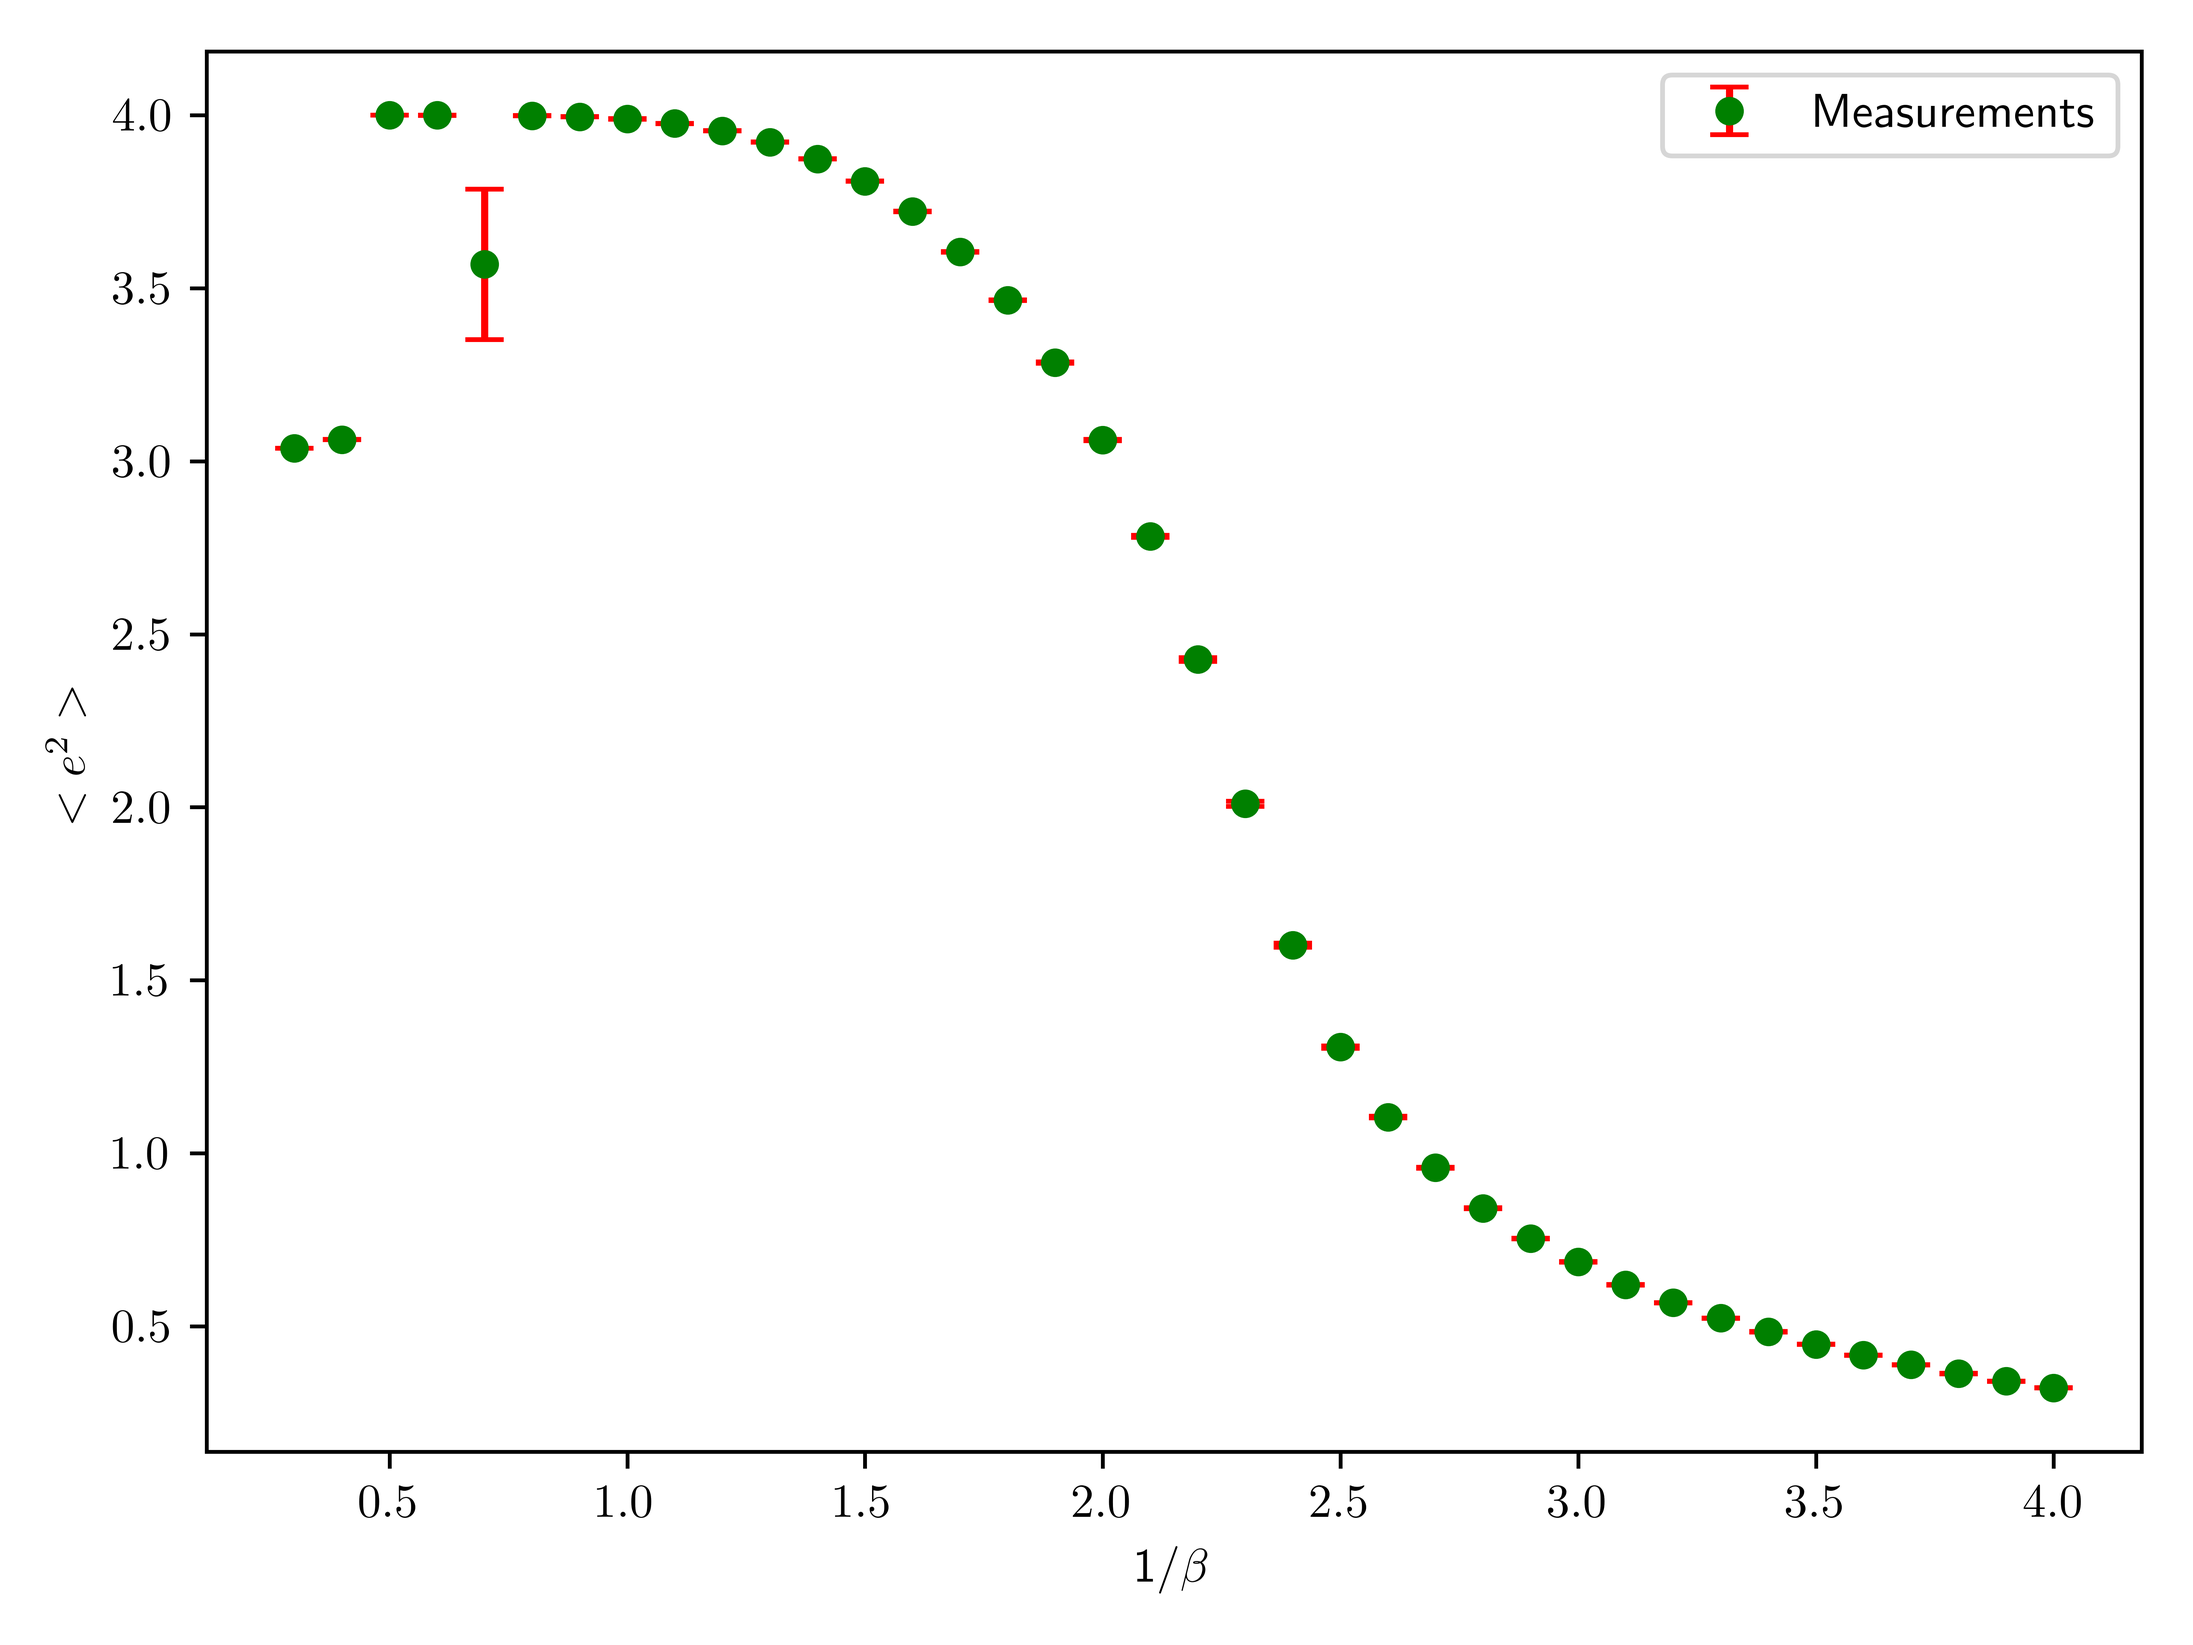
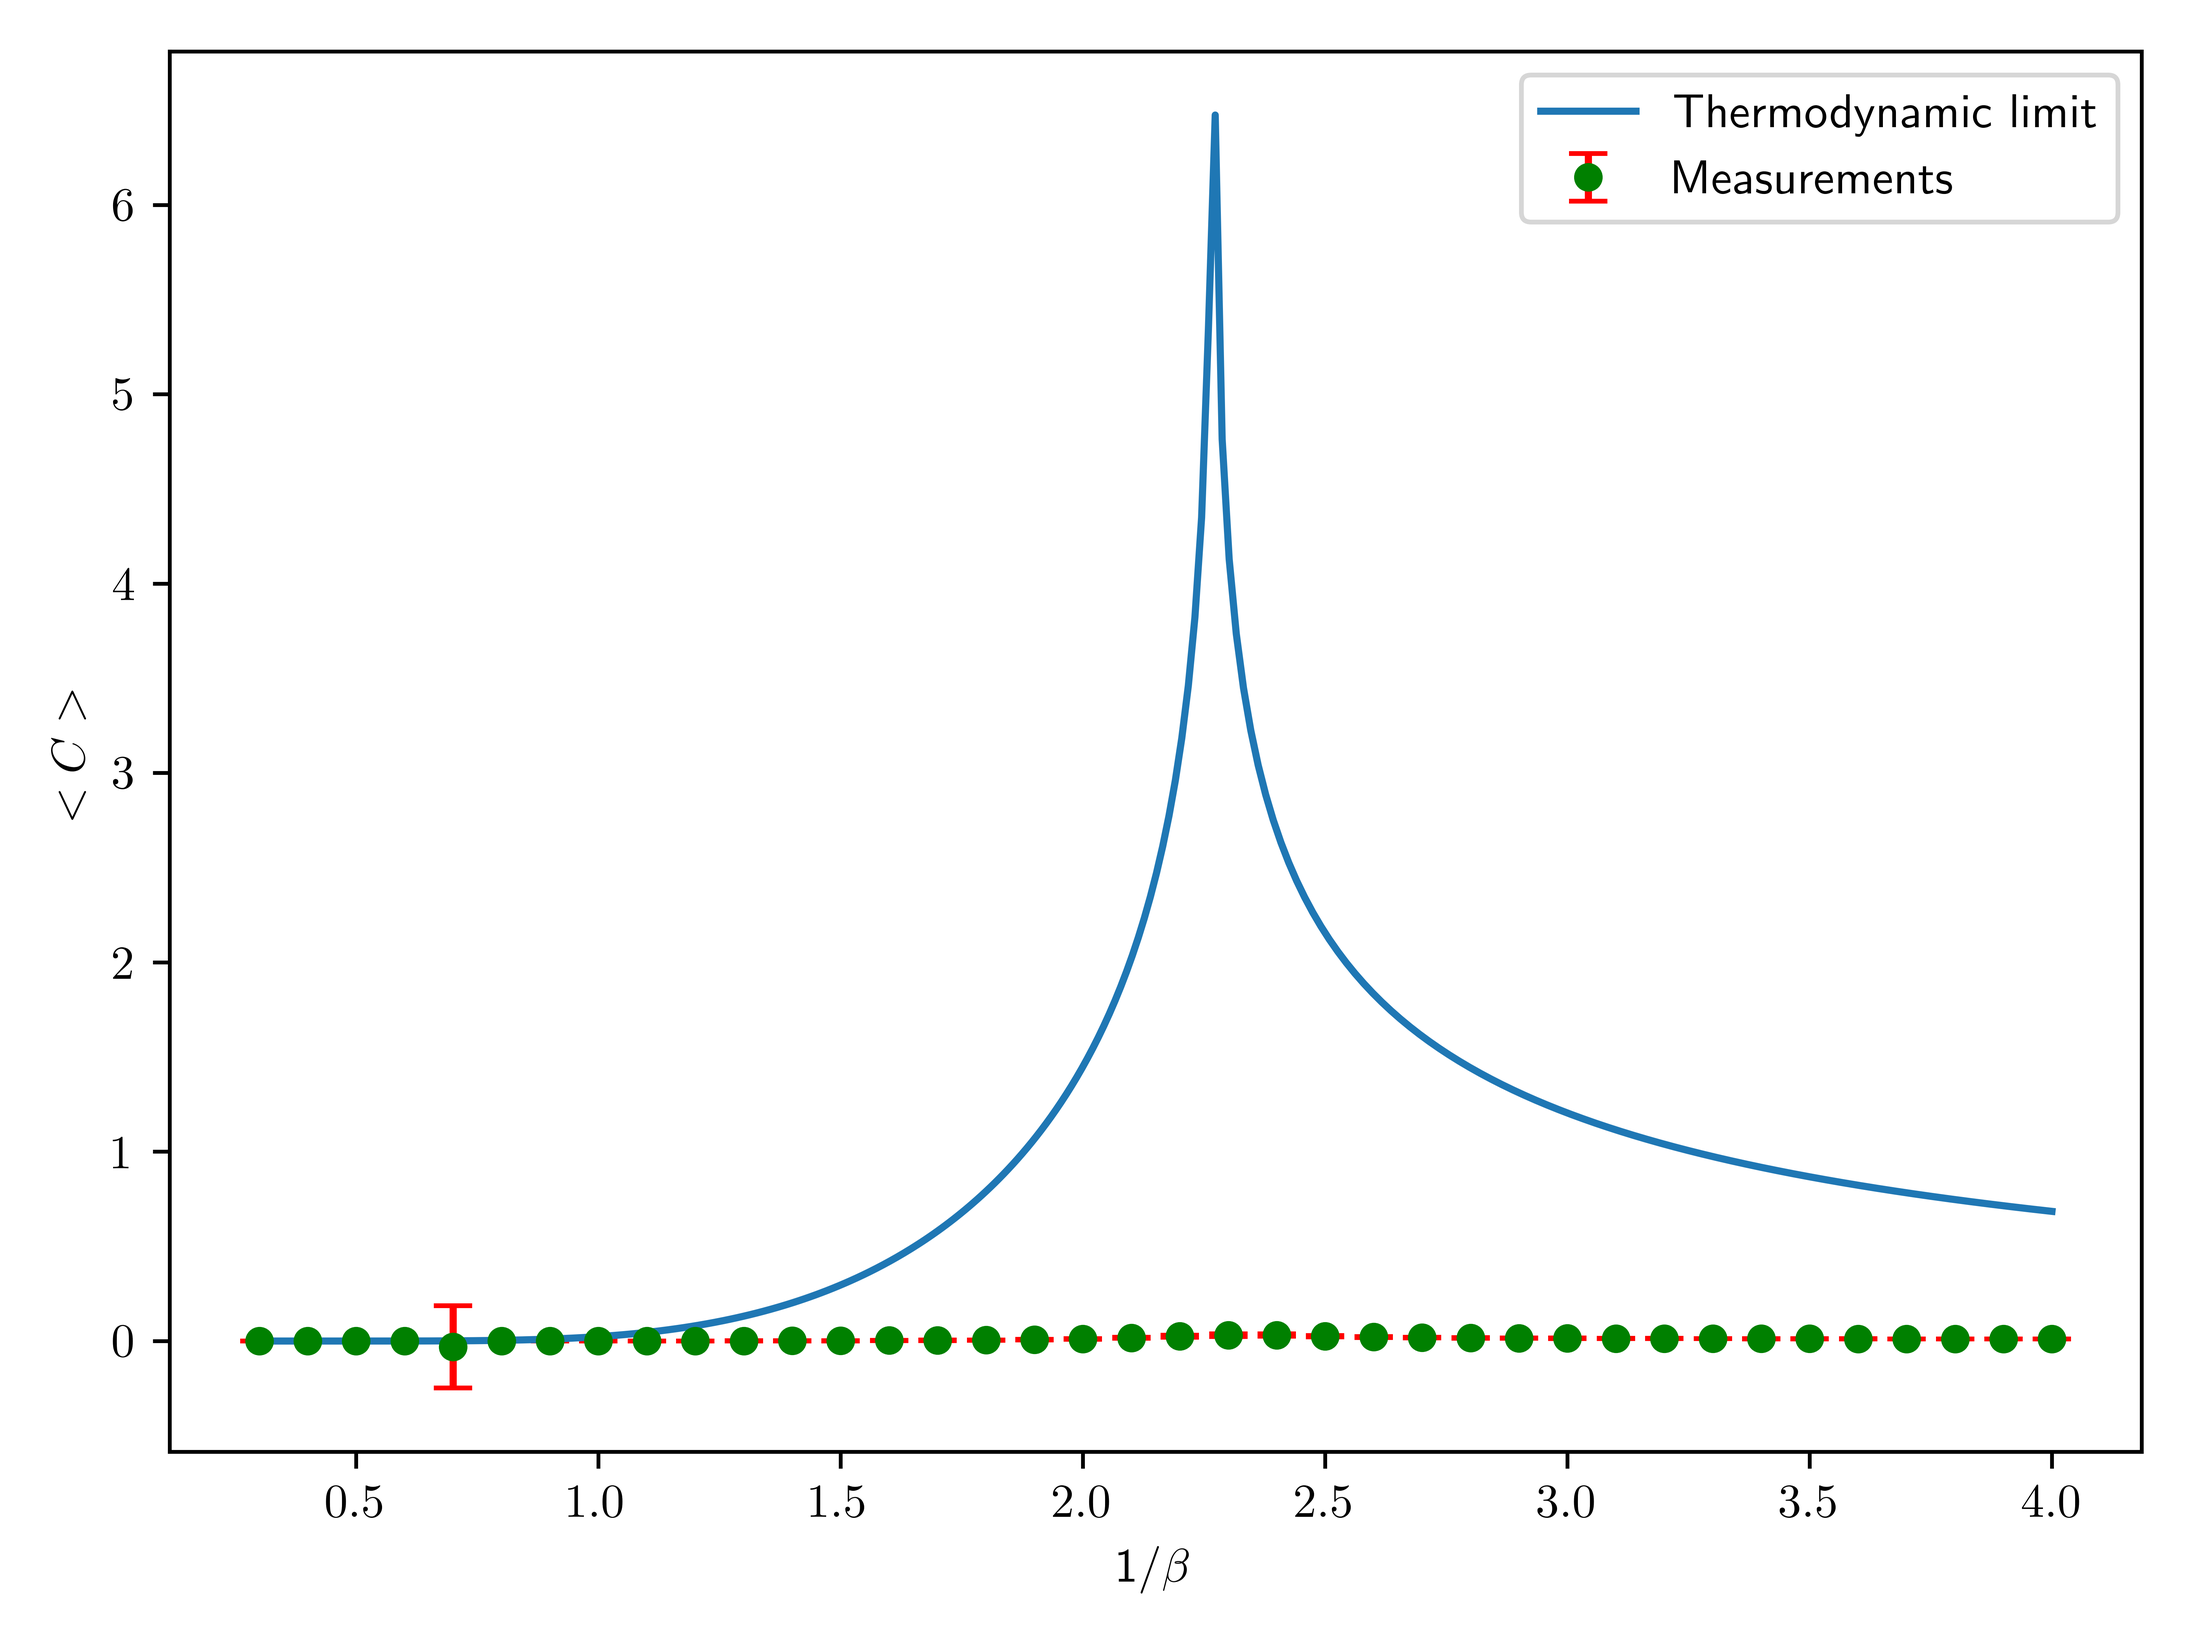
W cycle

diff --git a/plot/plot.py b/plot/plot.py
@@ -39,6 +39,16 @@ def ene_exact(J):  # exact internal energy in thermodynamic limit (for h=0)\n",
     return -J * np.cosh(J2) * answer / np.sinh(J2)
 
 
+def specific_heat_exact(beta):  # exact cpecific_heat in thermodynamic limit (for h=0)\n",
+    B2 = 2 * beta
+    k = 4 * np.sinh(B2) ** 2 / np.cosh(B2) ** 4
+    Kk = scipy.special.ellipk(k)
+    Ek = scipy.special.ellipe(k)
+    kp = 2 * (np.tanh(B2) ** 2) - 1
+    answer = 2 * Kk - 2 * Ek - (1 - kp) * ((np.pi / 2) + kp * Kk)
+    return ((2 * beta ** 2 / np.pi) / (np.tanh(B2) ** 2)) * answer
+
+
 def append_observable(name, measurements_group_, observable_list, observable_error_list):
     observable_group = measurements_group_.get(name)
     temp = -42
@@ -186,9 +196,13 @@ def base_plot(sub_folder_name="std_hmc/"):
 
     # energies_squared
     if len(energies_squared) > 0:
-        fig, ax = make_observable_plot(energy_squared_name, inverse_betas, energies_squared, energies_squared_errors)
-        ax.set_ylabel("$<e^2>$")
-        # todo exact solution
+        energies_squared = np.array(energies_squared)
+        energies = np.array(energies)
+        c_exact = np.array([specific_heat_exact(temp) / temp for temp in beta_lin])
+        fig, ax = make_observable_plot(energy_squared_name, inverse_betas, energies_squared - energies ** 2,
+                                       energies_squared_errors)
+        ax.set_ylabel("$<C>$")
+        ax.plot(1. / beta_lin, c_exact, label="Thermodynamic limit")
         ax.legend()
         fig.savefig(sub_folder_name + energy_squared_name + ".png", dpi=1000)
         plt.close(fig)
@@ -257,7 +271,10 @@ def info_plot(sub_folder_name, observable_name=magnetization_name):
             nu_post_level0.append(level0_group.attrs["nu_post"])
             label = "abc"
             if "level1" in f:
-                label = "MLHMC"
+                if gamma[-1]>1:
+                    label = "MLHMC  W-cycle"
+                else:
+                    label = "MLHMC V-cycle"
                 title = "MLHMC " + title
                 level1_group = f.get("level1")
                 nu_pre_level1.append(level1_group.attrs["nu_pre"])
@@ -268,12 +285,12 @@ def info_plot(sub_folder_name, observable_name=magnetization_name):
                 nu_pre_level1.append(-1)
                 nu_post_level1.append(-1)
 
-            if system_size[-1] == 8 * 8:
+            if system_size[-1] == 32 * 32:
                 make_auto_correlation_plot_to_ax(observable_name, measurements_group, ax_correl, last_sufix, label)
                 ax_correl.set_xlabel(r"t")
                 ax_correl.set_ylabel(r"$\bar{\Gamma}_{m}$")
                 # ax_.set_yscale("log")
-                ax_correl.set_xlim(-1, 3000)
+                ax_correl.set_xlim(-1, 2000)
                 ax_correl.set_ylim(0, 1.05)
                 fig_correl.set_tight_layout(True)
 
@@ -370,7 +387,7 @@ def info_plot(sub_folder_name, observable_name=magnetization_name):
 
     popt, pcov = opt.curve_fit(fit_function, x_wo_bias_correction_hmc, y_wo_bias_correction_hmc,
                                sigma=yerr_wo_bias_correction_hmc)
-    f = open(sub_folder_name + observable_name+"_output.txt", "w")
+    f = open(sub_folder_name + observable_name + "_output.txt", "w")
     x_wo_bias_correction_hmc = np.array(x_wo_bias_correction_hmc)
     y_wo_bias_correction_hmc = np.array(y_wo_bias_correction_hmc)
     yerr_wo_bias_correction_hmc = np.array(yerr_wo_bias_correction_hmc)
@@ -823,10 +840,10 @@ def crit_int_auto_correlation_plot(sub_folder_name, observable_name=magnetizatio
 # crit_int_auto_correlation_plot("gs_64_CB_ga_1_levels_2/")
 # info_plot("volume_exponent/", magnetization_squared_name)
 # info_plot("volume_exponent_test/",magnetization_name)
-info_plot("3d_new_c_0_3/",magnetization_name)
-info_plot("3d_new_c_0_3/",energy_name)
-info_plot("3d_new_c_0_3/",magnetization_squared_name)
-info_plot("3d_new_c_0_3/",energy_squared_name)
+# info_plot("3d_new_c_0_3/",magnetization_name)
+info_plot("volume_exponent_test/",magnetization_name)
+# info_plot("3d_new_c_0_3/",magnetization_squared_name)
+# info_plot("3d_new_c_0_3/",energy_squared_name)
 # check_thermalisation("volume_exponent/")
 # base_plot("HMC_physical_check/")
 # base_plot("MLHMC_physical_check/")

diff --git a/src/Analyzer/Analyzer.cpp b/src/Analyzer/Analyzer.cpp
@@ -181,3 +181,53 @@ void Analyzer::bootstrap_data(int amount_of_sample_sets) {
     write_static_size(bootstrap_mean, group, bootstrap_mean_name);
     write_static_size(bootstrap_variance, group, bootstrap_variance_name);
 }
+
+void Analyzer::susceptibility(Analyzer &analyzer, int amount_of_sample_sets, const std::string &observable_name) {
+    if (blocked_data.empty()) {
+        if (int_auto_correlation_time > 0) {
+            block_data(static_cast<int>(int_auto_correlation_time + 1) / 2, -1);
+        } else {
+            block_data(42, -1);
+        }
+    }
+    if(analyzer.blocked_data.empty()){
+        if (analyzer.int_auto_correlation_time > 0) {
+            analyzer.block_data(static_cast<int>(analyzer.int_auto_correlation_time + 1) / 2, -1);
+        } else {
+            analyzer.block_data(42, -1);
+        }
+    }
+    if (blocked_data.empty()) {
+        return;
+    }
+    if (analyzer.blocked_data.empty()) {
+        return;
+    }
+    if (amount_of_sample_sets < 0) {
+        amount_of_sample_sets = static_cast<int>(blocked_data.size());
+
+    }
+    std::vector<double> susceptibility_bootstrapped_data;
+    susceptibility_bootstrapped_data.resize(amount_of_sample_sets);
+    std::fill(susceptibility_bootstrapped_data.begin(), susceptibility_bootstrapped_data.end(), 0.);
+
+    std::uniform_int_distribution<size_t> distribution(0, blocked_data.size() - 1);
+    //TODO
+    bootstrap_mean = 0.;
+    for (auto &bootstrap_est: bootstrapped_data) {
+        for (int i = 0; i < blocked_data.size(); ++i) {
+            bootstrap_est += blocked_data[distribution(generator)];
+        }
+        bootstrap_est /= static_cast<double>(blocked_data.size());
+        bootstrap_mean += bootstrap_est;
+    }
+    bootstrap_mean /= static_cast<double>(amount_of_sample_sets);
+
+    bootstrap_variance = 0.;
+    for (auto bootstrap_est: bootstrapped_data) {
+        bootstrap_variance += (bootstrap_est - bootstrap_mean) * (bootstrap_est - bootstrap_mean);
+    }
+    bootstrap_variance /= static_cast<double>(amount_of_sample_sets - 1);
+    write_static_size(bootstrap_mean, group, bootstrap_mean_name);
+    write_static_size(bootstrap_variance, group, bootstrap_variance_name);
+}

diff --git a/src/main.cpp b/src/main.cpp
@@ -515,27 +515,27 @@ int main([[maybe_unused]] int argc, [[maybe_unused]] char *argv[]) {
     //test_HMC(std::string(DATA_DIR).append("HMCTest1.dat"));
     //test_multi_level_hmc();
     //test_hmc_measurements();
-    DoMultiLevelMeasurementsFromDir(std::string("3d_new_c_0_3"), std::string("ising"), true);
-    /*size_t i{6};
-    HMCCriticalSimulation(2, 3, 1. / 3., i++, 100000, 3);
-    HMCCriticalSimulation(4, 4, 1. / 4., i++, 100000, 3);
-    HMCCriticalSimulation(8, 8, 1. / 8., i++, 100000, 3);
+    //DoMultiLevelMeasurementsFromDir(std::string("3d_new_c_0_3"), std::string("ising"), true);
+    size_t i{42};
+    //HMCCriticalSimulation(2, 3, 1. / 3., i++, 100000, 3);
+    //HMCCriticalSimulation(4, 4, 1. / 4., i++, 100000, 3);
+    //HMCCriticalSimulation(8, 8, 1. / 8., i++, 100000, 3);
     //HMCCriticalSimulationXY(16, 12, 1. / 12.);
-    std::vector<size_t> nu_pre = {0, 0};
-    std::vector<size_t> nu_post = {1, 1};
-    std::vector<int> erg_jump_dists = {-1, -1};
-    std::vector<size_t> amount_of_steps = {4, 6};
-    std::vector<double> step_sizes = {1. / 4., 1. / 6.};
+    std::vector<size_t> nu_pre = {0, 0, 0, 0};
+    std::vector<size_t> nu_post = {1, 1, 1, 1};
+    std::vector<int> erg_jump_dists = {-1, -1, -1, -1};
+    std::vector<size_t> amount_of_steps = {10, 10, 10, 10};
+    std::vector<double> step_sizes = {1. / 10., 1. / 10., 1. / 10., 1. / 10.};
     //for (size_t l = 1; l < 17; l *= 4) {
     //nu_pre.push_back(1);
     //nu_post.push_back(1);
     //erg_jump_dists.push_back(-1);
     //amount_of_steps.push_back(l * 3);
     //step_sizes.push_back(1. / (static_cast<double>(l) * 3.));
-    MultiLevelCriticalSimulation(4, nu_pre, nu_post,
-                                 erg_jump_dists, 1, InterpolationType::Checkerboard,
+    MultiLevelCriticalSimulation(32, nu_pre, nu_post,
+                                 erg_jump_dists, 2, InterpolationType::Checkerboard,
                                  amount_of_steps,
-                                 step_sizes, i++, 100000, 3);
+                                 step_sizes, i++, 100000, 2);
     nu_pre = {0, 0, 0};
     nu_post = {1, 1, 1};
     erg_jump_dists = {-1, -1, -1};

diff --git a/src/Analyzer/Analyzer.h b/src/Analyzer/Analyzer.h
@@ -56,6 +56,8 @@ public:
      */
     void bootstrap_data(int amount_of_sample_sets);
 
+    void susceptibility(Analyzer &analyzer, int amount_of_sample_sets, const std::string &observable_name);
+
 private:
     /**
      * @brief Dataset
